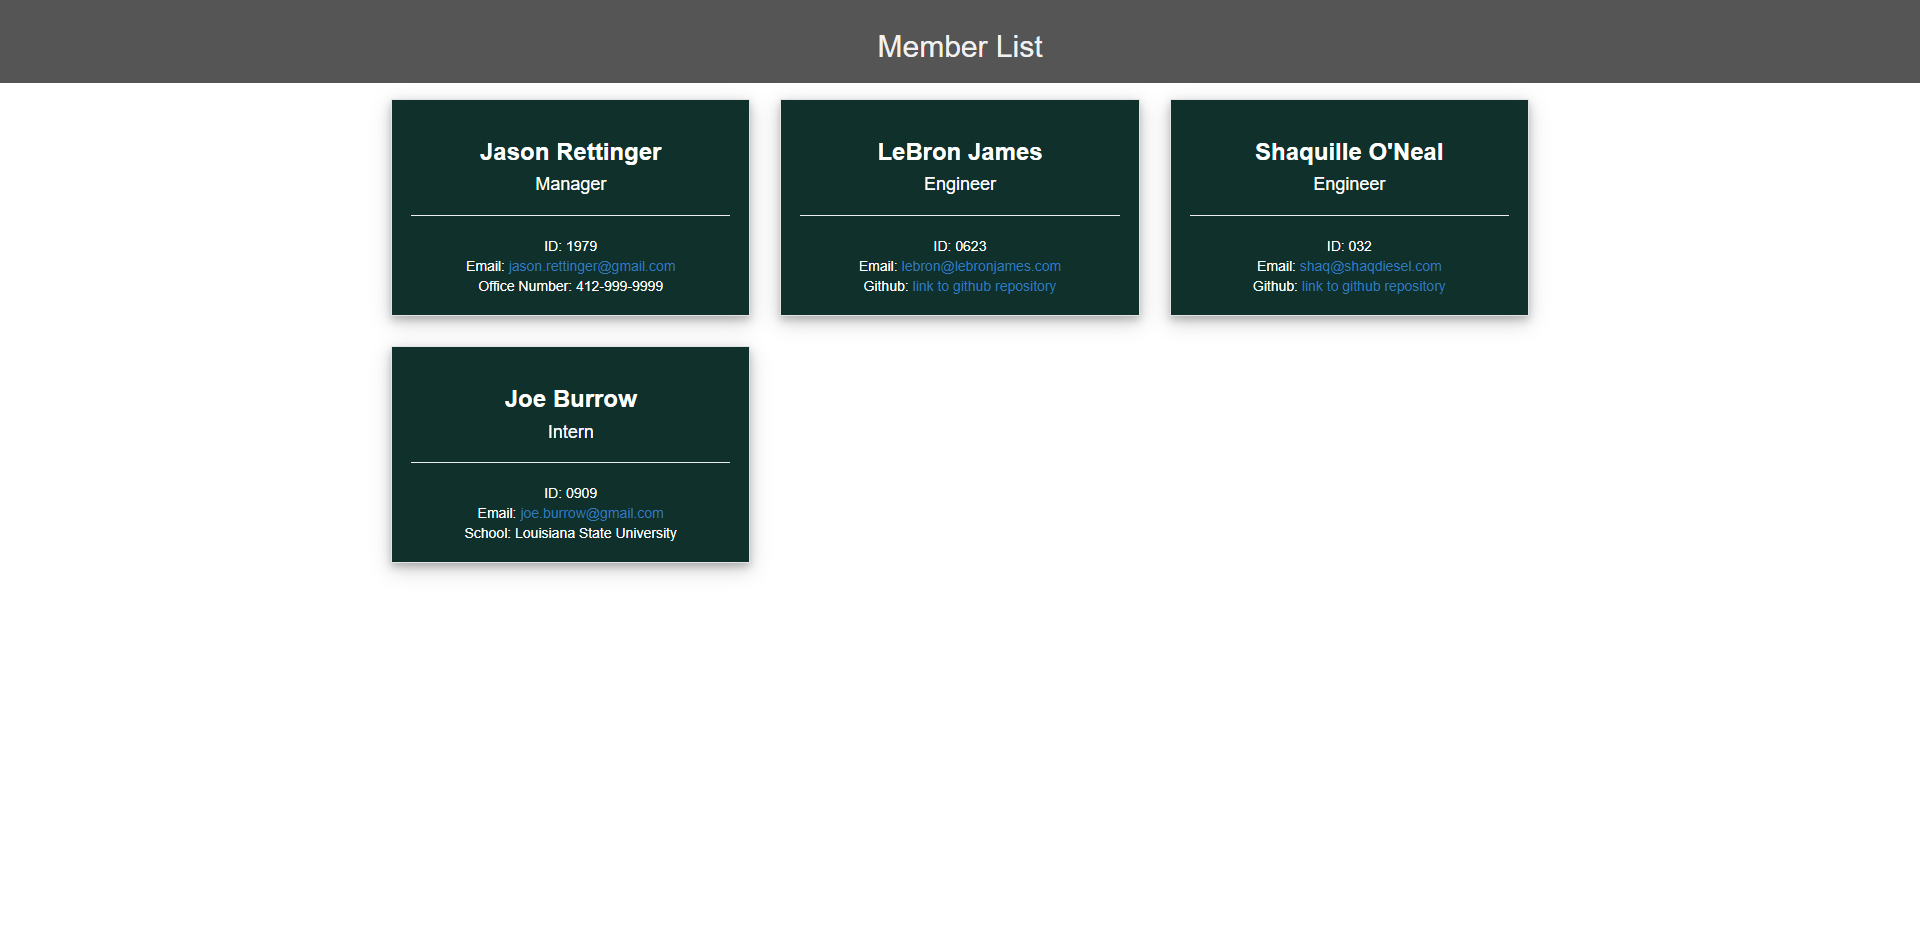
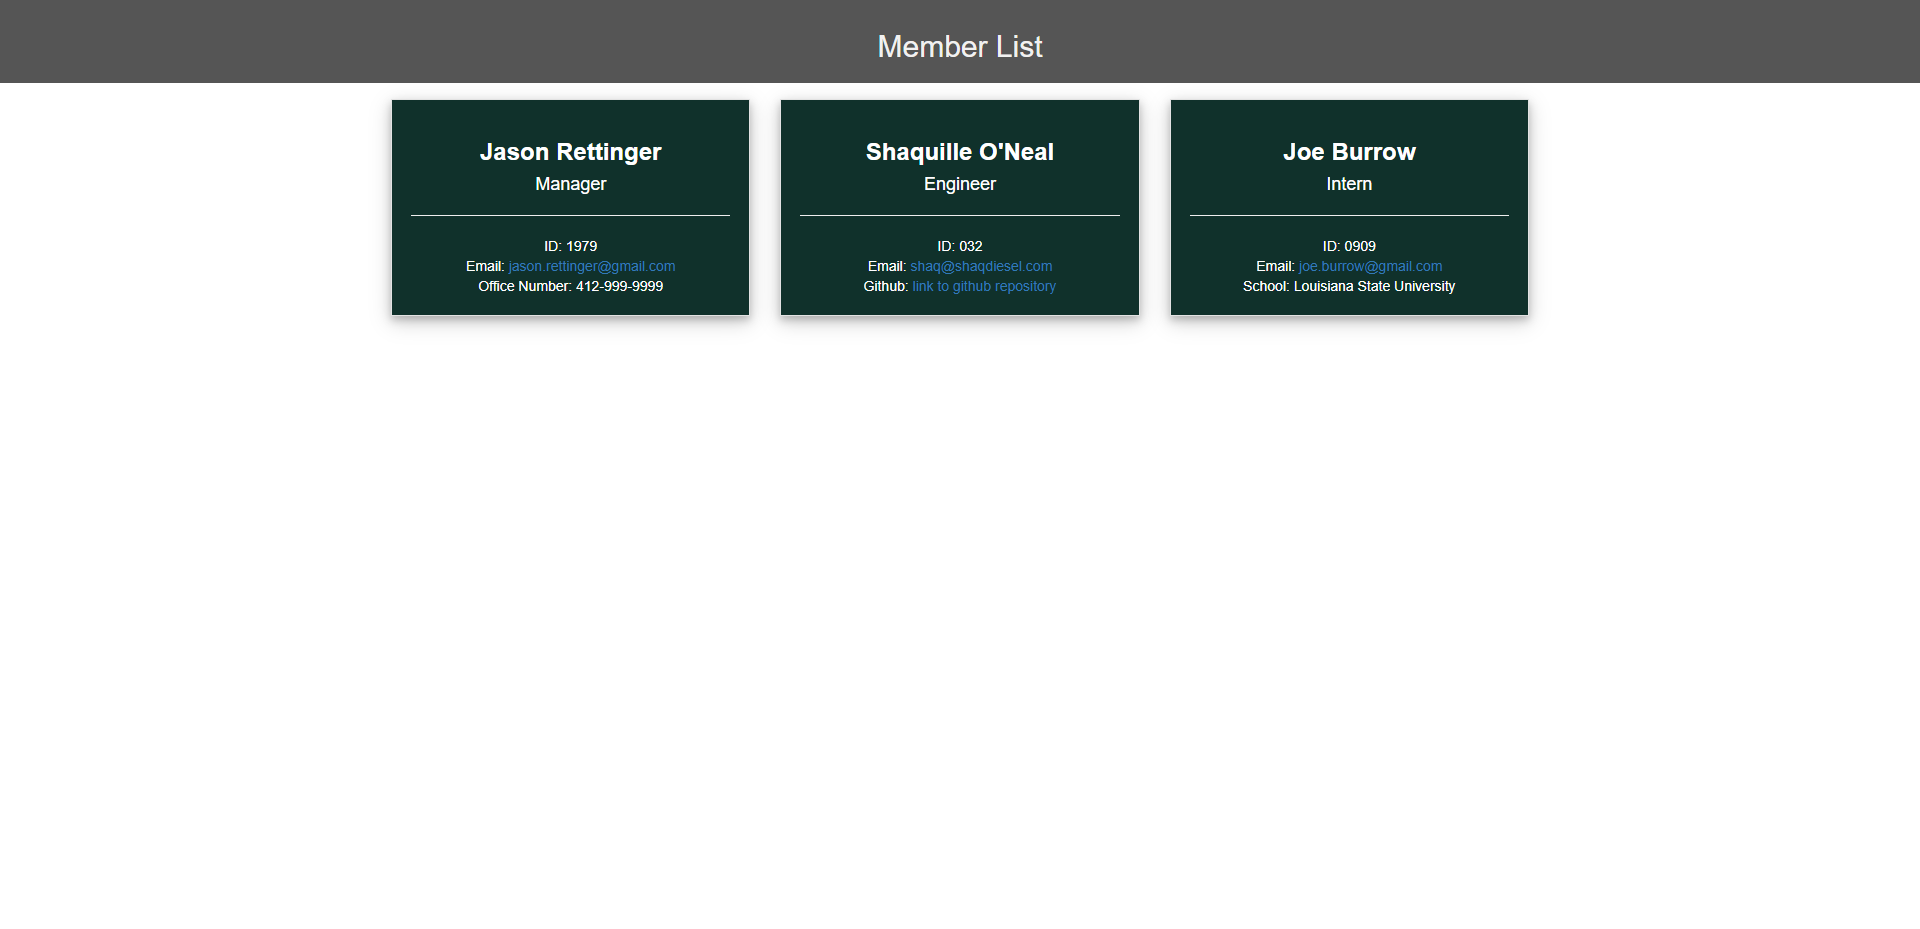
edited walkthrough video to show that the links work

diff --git a/dist/index.html b/dist/index.html
@@ -29,23 +29,12 @@
         </div><div class="col-md-4">
           <div class="well mini-profile-widget card">
             <div class="details">
-              <h3><b>LeBron James</b></h3>
-              <h4>Engineer</h4>
-              <hr>
-              <div>ID: 0623</div>
-              <div>Email: <a href="mailto:lebron@lebronjames.com" target="_blank">lebron@lebronjames.com</a></div>
-              <div>Github: <a href="https://github.com/LeBron23" target="_blank">link to github repository</a></div>
-            </div>
-          </div>
-        </div><div class="col-md-4">
-          <div class="well mini-profile-widget card">
-            <div class="details">
               <h3><b>Shaquille O'Neal</b></h3>
               <h4>Engineer</h4>
               <hr>
               <div>ID: 032</div>
               <div>Email: <a href="mailto:shaq@shaqdiesel.com" target="_blank">shaq@shaqdiesel.com</a></div>
-              <div>Github: <a href="https://github.com/ShaqDiesel" target="_blank">link to github repository</a></div>
+              <div>Github: <a href="https://github.com/shaqdiesel" target="_blank">link to github repository</a></div>
             </div>
           </div>
         </div><div class="col-md-4">

diff --git a/README.md b/README.md
@@ -5,7 +5,7 @@ Jason's Team Profile Generator
  I created a Node.js command-line application that takes in information about employees on a software engineering team and generates an HTML webpage that displays summaries for each person. 
 
   ## Video Walkthrough of my Project
-<a href= "https://drive.google.com/file/d/10NK9Te5TYYyW6o4qq4nJ8yb5KnhVz_W2/view" target= blank>Link to the walkthrough video</a>
+<a href= "https://drive.google.com/file/d/1RNHtu9f5KvfquZkMg9O3xKU0aHVTMzER/view" target= blank>Link to the walkthrough video</a>
   
   ## Screenshot of the HTML Webpage
   ![HTML-Page](https://user-images.githubusercontent.com/109103857/189983987-94279344-514f-44cc-b5c7-11ac19bf1b29.png)
